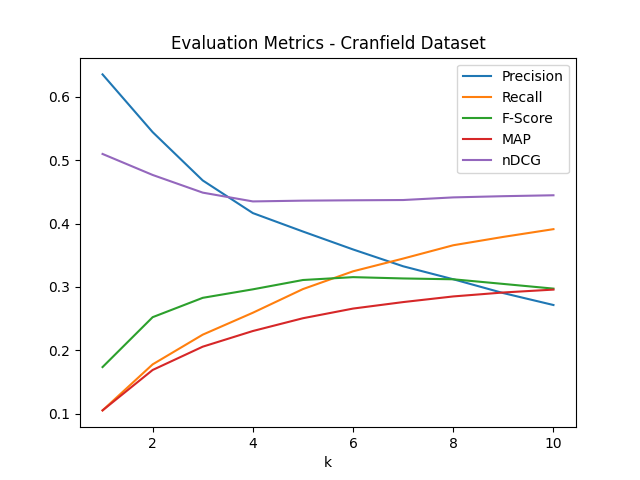
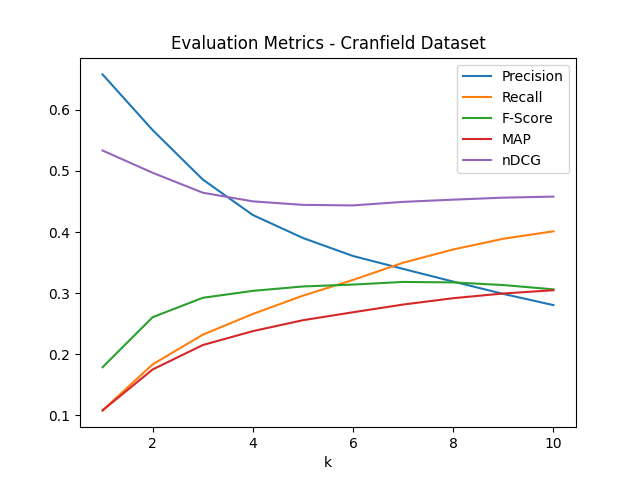
Updated LSA
k = 250 with modified corpus

diff --git a/Project/main.py b/Project/main.py
@@ -154,7 +154,7 @@ class SearchEngine:
 		# Read documents
 		docs_json = json.load(open(args.dataset + "cran_docs.json", 'r'))[:]
 		doc_ids, docs = [item["id"] for item in docs_json], \
-								[item["body"] for item in docs_json]
+								[item["body"] + item["title"] for item in docs_json]
 		# Process documents
 		processedDocs = self.preprocessDocs(docs)
 
@@ -195,7 +195,7 @@ class SearchEngine:
 		# 				"fscores": fscores,
 		# 				"MAPs": MAPs,
 		# 				"nDCGs": nDCGs}
-		# with open('eval_metrics_LSA.pkl', 'wb') as fp:
+		# with open('eval_metrics_LSA_250_BT.pkl', 'wb') as fp:
 		# 	pickle.dump(eval_metrics, fp)
 		# 	print('dictionary saved successfully to file')
 		# Plot the metrics and save plot 
@@ -224,7 +224,7 @@ class SearchEngine:
 		# Read documents
 		docs_json = json.load(open(args.dataset + "cran_docs.json", 'r'))[:]
 		doc_ids, docs = [item["id"] for item in docs_json], \
-							[item["body"] for item in docs_json]
+							[item["body"] + item["title"] for item in docs_json]
 		# Process documents
 		processedDocs = self.preprocessDocs(docs)
 

diff --git a/Project/informationRetrieval_LSA.py b/Project/informationRetrieval_LSA.py
@@ -97,7 +97,21 @@ class InformationRetrieval():
             U, Singluar_Values, V = np.linalg.svd(td_mat)
             S = np.diag(Singluar_Values)
             
+            # Choosing the value of K
+            # total_singular_val = np.sum(Singluar_Values)
+            # print("Total sum of singular values = ", total_singular_val)
+            # k = 0
+            # sum_k_singular_val = 0
+            # while k < S.shape[0]:
+            #     sum_k_singular_val += S[k, k]
+            #     if sum_k_singular_val >= 0.8*total_singular_val:
+            #         break
+            #     k += 1
+            # 
+
             k = 250
+            print("Value of k = ", k)
+            
             Uk = U[:, :k]
             Sk = S[:k,:k]
             Vk = V[:k, :]
